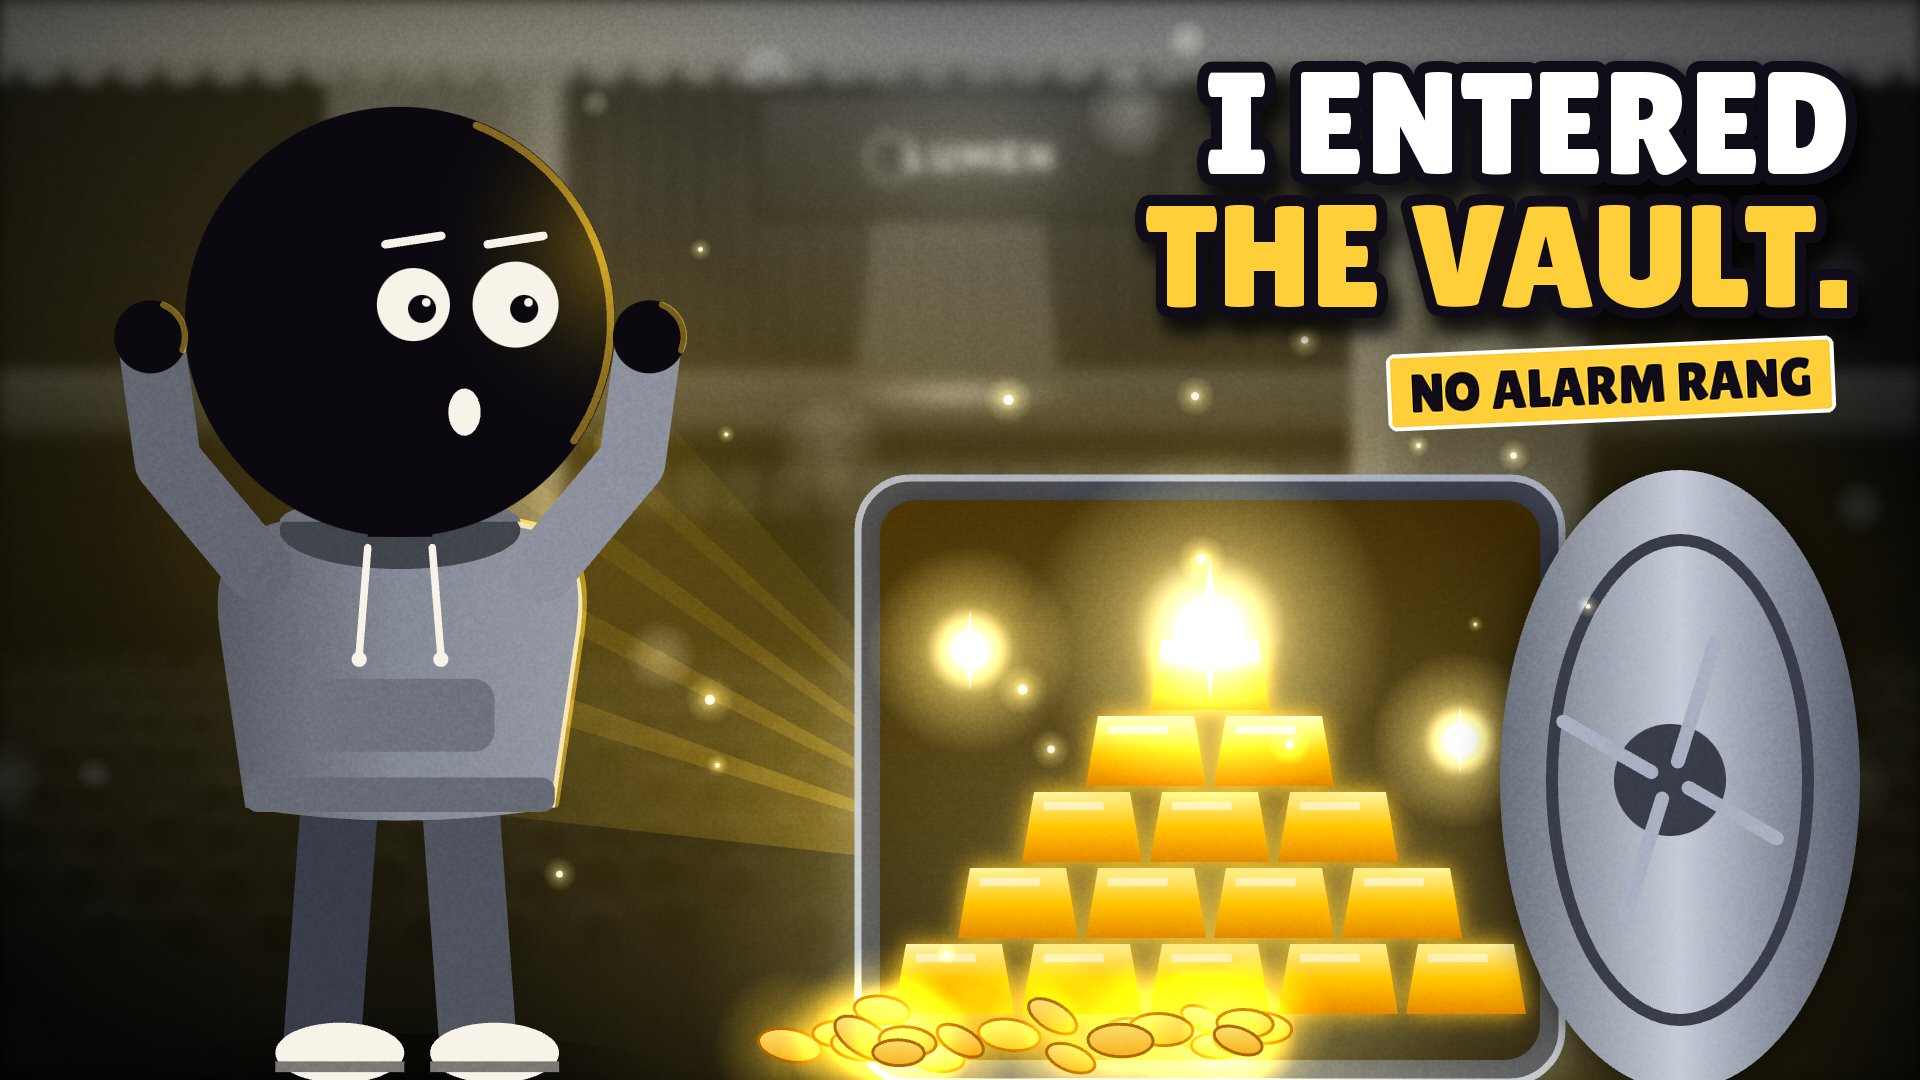
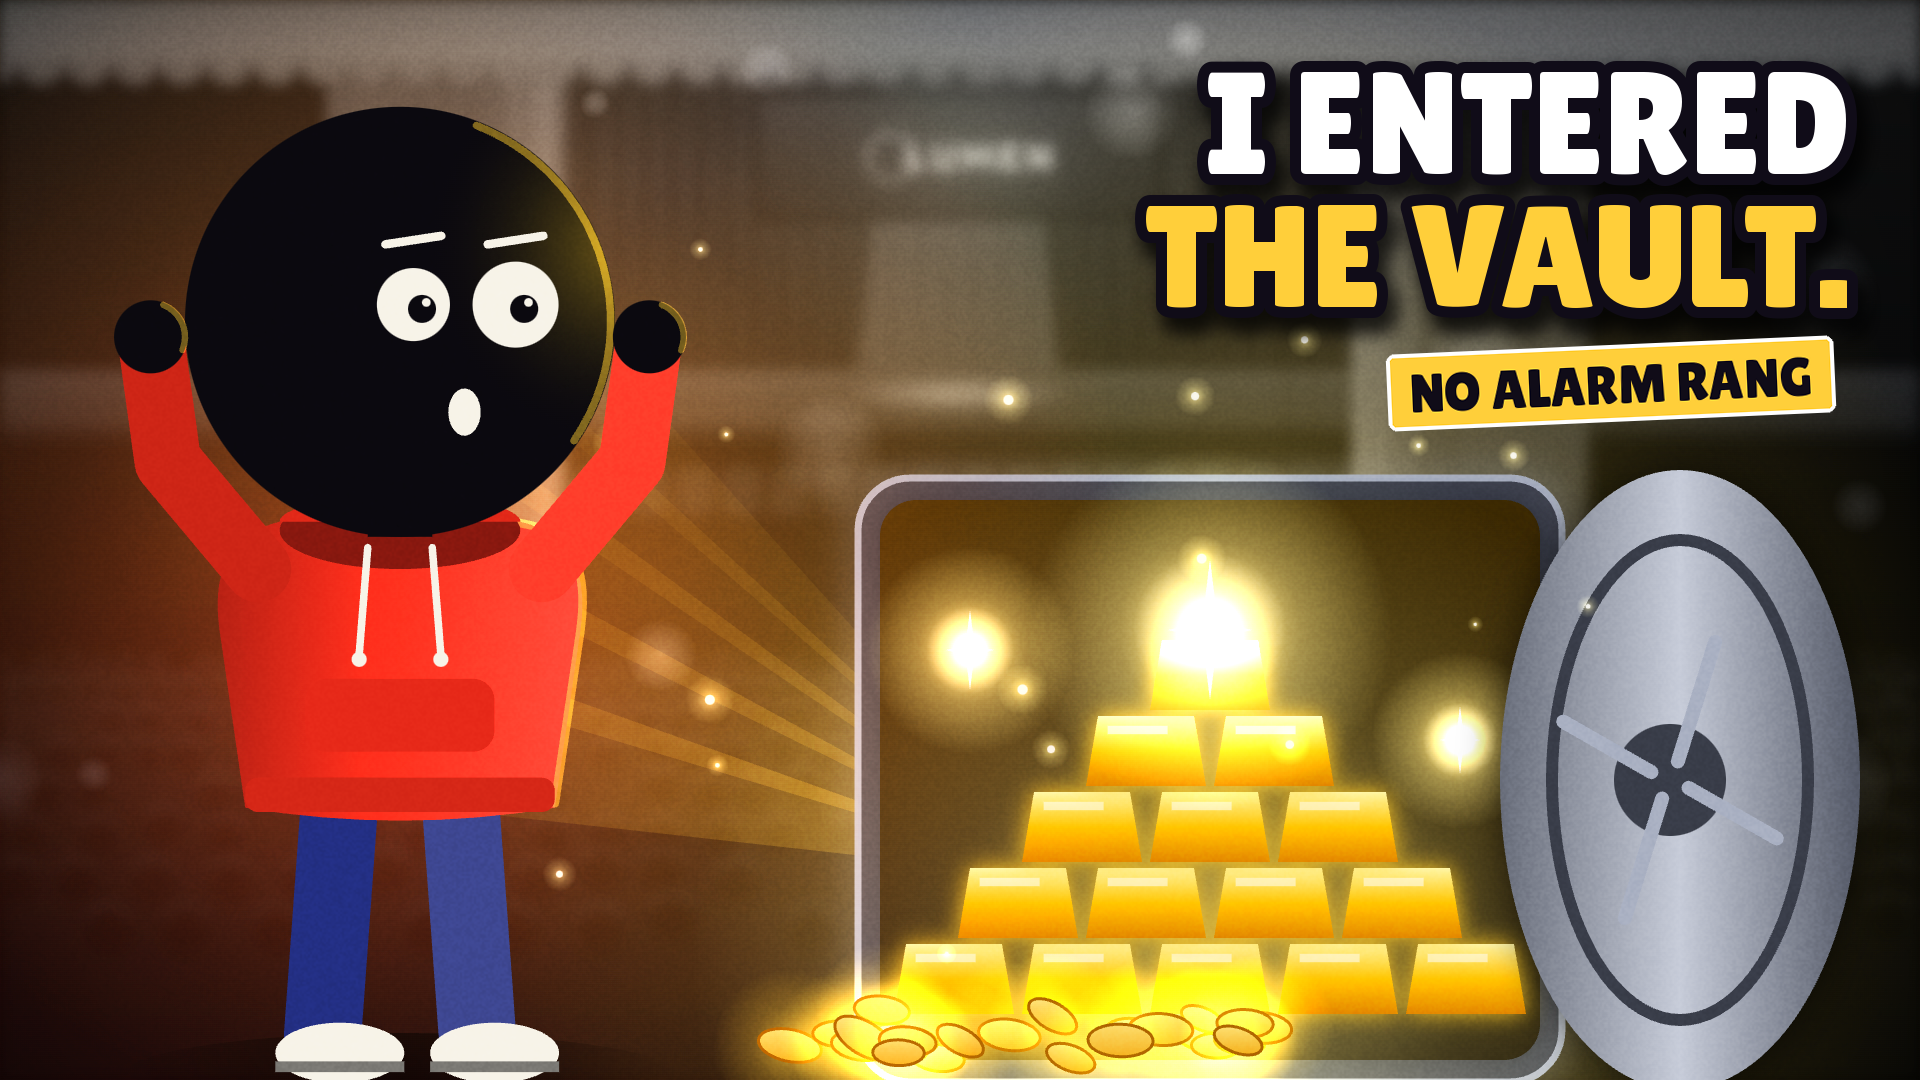
Make hero colourful in vault + birthday thumbs
Claude-Session: https://claude.ai/code/session_01YFUDhrMedF3J9RxaY7Gex1

Changed region(s): [[0.0, 0.1222, 0.4688, 1.0], [0.125, 0.1222, 0.1562, 0.1528]]

diff --git a/razgon-2d-studio/projects/thumbs/scenes/shots/invisible3.js b/razgon-2d-studio/projects/thumbs/scenes/shots/invisible3.js
@@ -31,7 +31,8 @@ const V = {
     // spilled gold coins in front
     const r = rng(41); for (let i = 0; i < 26; i++) { const x = vx - 120 + r() * 520, y = 1010 + r() * 50, s = 22 + r() * 12; glow(g, x, y, s * 2.4, c, 0.5); g.fillStyle = linGrad(g, 0, y - s, 0, y + s, ['#fff2a0', '#e8a010']); g.beginPath(); g.ellipse(x, y, s, s * 0.5, r() * 0.6, 0, 7); g.fill(); g.strokeStyle = '#a8680a'; g.lineWidth = 3; g.stroke(); }
     motes(g, 42, 24, '#fff2a0', [300, 200, 1500, 800]);
-    heroFull(g, 400, 1070, 215, 'shocked', { ...GH, pose: 'up', dir: 1, rim: c, haloA: 0.3 });
+    spot(g, 400, 640, 760, '#ff3a2a', 0.38);
+    heroFull(g, 400, 1070, 215, 'shocked', { hoodie: '#ff3b2a', pants: '#26307a', pose: 'up', dir: 1, rim: c, haloA: 0.3 });
   },
   2(g, t) {
     grayBg(g, t, 'kitchenNight', 402, { veil: 0.45, vig: 0.7 });
@@ -46,7 +47,8 @@ const V = {
     seg(g, [[cx, 680], [cx, 596]], 20, '#e0e3ee'); flame(g, cx, 592, 160, 38, '#ff7a1a', '#fff2a0'); star(g, cx, 510, 44, '#fff2a0');
     g.restore();
     motes(g, 43, 26, '#ffd08a', [900, 250, 900, 700]);
-    heroFull(g, 470, 1560, 270, 'angry', { ...GH, pose: 'point', dir: 1, rim: '#ffb060', haloA: 0.3 });
+    spot(g, 470, 760, 900, '#ff3a2a', 0.34);
+    heroFull(g, 470, 1560, 270, 'angry', { hoodie: '#ff3b2a', pants: '#26307a', pose: 'point', dir: 1, rim: '#ffb060', haloA: 0.3 });
   },
 };
 for (const s of E.shots) if (s.params?.tpl === 'ifv-invisible3') registerShot(s.id, { draw(g, t, info) { V[info.k](g, t); } });
